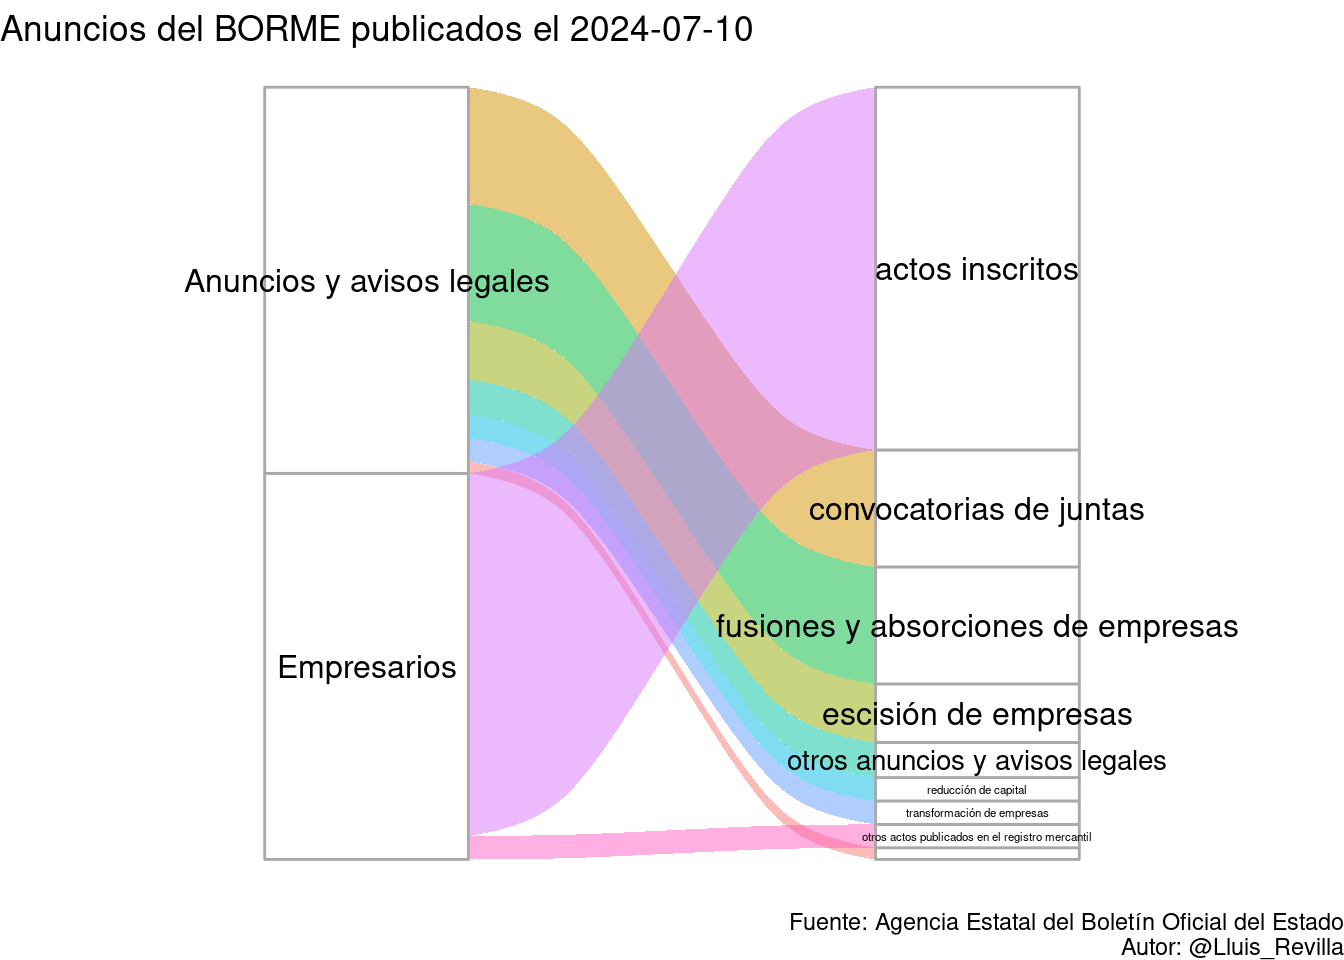
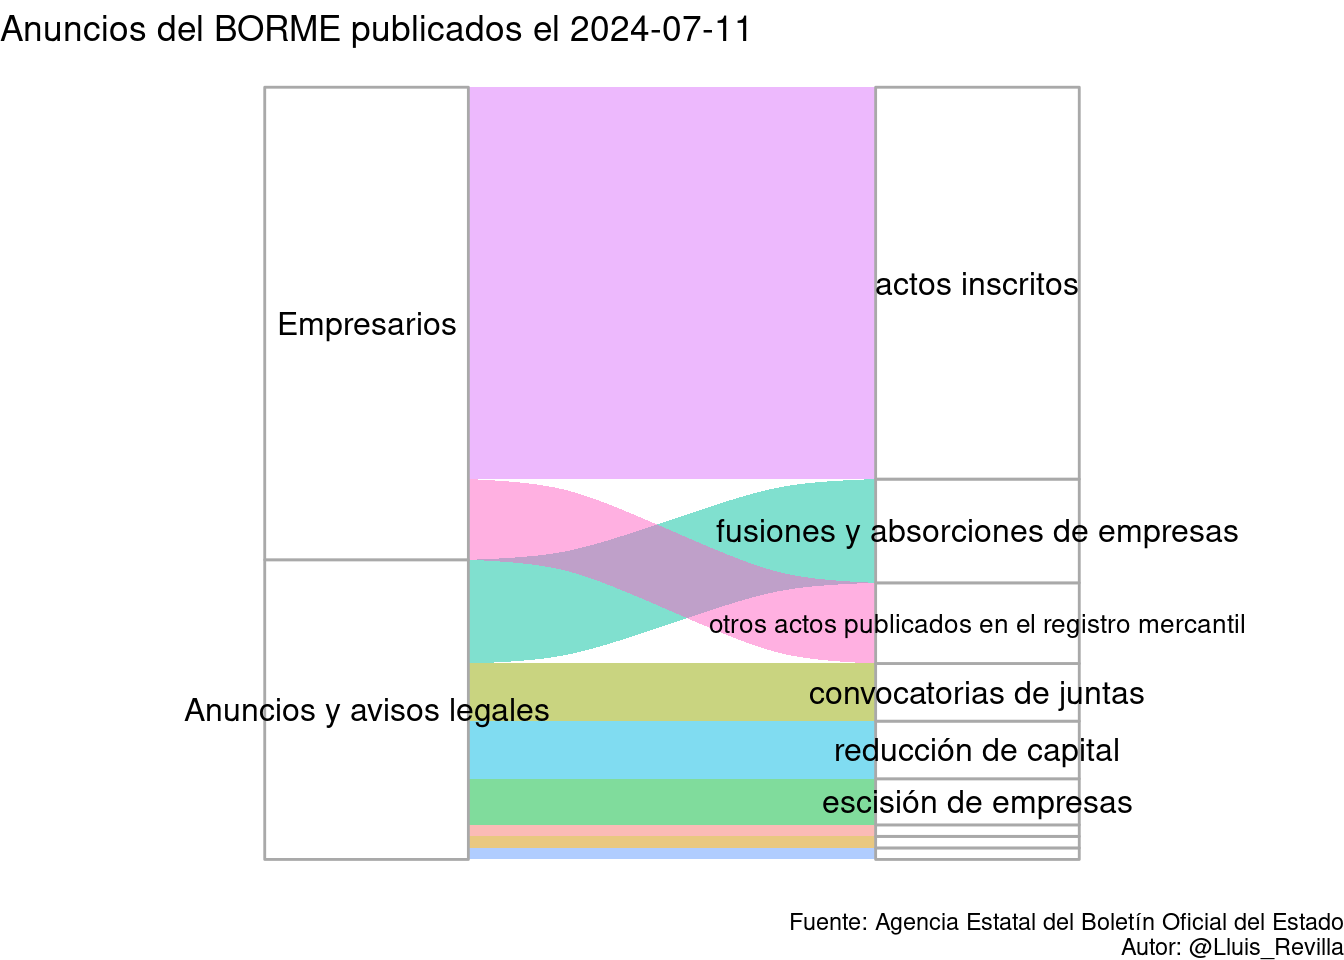
Update BORME

Changed region(s): [[0.125, 0.0938, 0.9375, 0.9062], [0.6562, 0.25, 0.8125, 0.3125], [0.5312, 0.0, 0.5625, 0.0312]]

diff --git a/docs/last_BORME.html b/docs/last_BORME.html
@@ -379,14 +379,14 @@ $(document).ready(function () {
 
 <div id="resumen-gráfico" class="section level1">
 <h1>Resumen gráfico</h1>
-<p>Esta página web contiene el último sumario del BORME publicado el 2024-07-10 con 66 publicaciones.</p>
+<p>Esta página web contiene el último sumario del BORME publicado el 2024-07-11 con 67 publicaciones.</p>
 <p><img src="last_BORME_files/figure-html/graphics-1.png" width="672" /></p>
 </div>
 <div id="tabla-de-publicaciones" class="section level1">
 <h1>Tabla de publicaciones</h1>
 <p>Aquí está la tabla completa con enlaces a las publicaciones:</p>
-<div class="datatables html-widget html-fill-item-overflow-hidden html-fill-item" id="htmlwidget-27d4bf827f6c5ff35a46" style="width:100%;height:auto;"></div>
-<script type="application/json" data-for="htmlwidget-27d4bf827f6c5ff35a46">{"x":{"filter":"top","vertical":false,"filterHTML":"<tr>\n  <td><\/td>\n  <td data-type=\"character\" style=\"vertical-align: top;\">\n    <div class=\"form-group has-feedback\" style=\"margin-bottom: auto;\">\n      <input type=\"search\" placeholder=\"All\" class=\"form-control\" style=\"width: 100%;\"/>\n      <span class=\"glyphicon glyphicon-remove-circle form-control-feedback\"><\/span>\n    <\/div>\n  <\/td>\n  <td data-type=\"character\" style=\"vertical-align: top;\">\n    <div class=\"form-group has-feedback\" style=\"margin-bottom: auto;\">\n      <input type=\"search\" placeholder=\"All\" class=\"form-control\" style=\"width: 100%;\"/>\n      <span class=\"glyphicon glyphicon-remove-circle form-control-feedback\"><\/span>\n    <\/div>\n  <\/td>\n  <td data-type=\"character\" style=\"vertical-align: top;\">\n    <div class=\"form-group has-feedback\" style=\"margin-bottom: auto;\">\n      <input type=\"search\" placeholder=\"All\" class=\"form-control\" style=\"width: 100%;\" disabled=\"\"/>\n      <span class=\"glyphicon glyphicon-remove-circle form-control-feedback\"><\/span>\n    <\/div>\n  <\/td>\n  <td data-type=\"character\" style=\"vertical-align: top;\">\n    <div class=\"form-group has-feedback\" style=\"margin-bottom: auto;\">\n      <input type=\"search\" placeholder=\"All\" class=\"form-control\" style=\"width: 100%;\"/>\n      <span class=\"glyphicon glyphicon-remove-circle form-control-feedback\"><\/span>\n    <\/div>\n  <\/td>\n<\/tr>","data":[["1","2","3","4","5","6","7","8","9","10","11","12","13","14","15","16","17","18","19","20","21","22","23","24","25","26","27","28","29","30","31","32","33","34","35","36","37","38","39","40","41","42","43","44","45","46","47","48","49","50","51","52","53","54","55","56","57","58","59","60","61","62","63","64","65","66"],["SECCIÓN PRIMERA. Empresarios","SECCIÓN PRIMERA. Empresarios","SECCIÓN PRIMERA. Empresarios","SECCIÓN PRIMERA. Empresarios","SECCIÓN PRIMERA. Empresarios","SECCIÓN PRIMERA. Empresarios","SECCIÓN PRIMERA. Empresarios","SECCIÓN PRIMERA. Empresarios","SECCIÓN PRIMERA. Empresarios","SECCIÓN PRIMERA. Empresarios","SECCIÓN PRIMERA. Empresarios","SECCIÓN PRIMERA. Empresarios","SECCIÓN PRIMERA. Empresarios","SECCIÓN PRIMERA. Empresarios","SECCIÓN PRIMERA. Empresarios","SECCIÓN PRIMERA. Empresarios","SECCIÓN PRIMERA. Empresarios","SECCIÓN PRIMERA. Empresarios","SECCIÓN PRIMERA. Empresarios","SECCIÓN PRIMERA. Empresarios","SECCIÓN PRIMERA. Empresarios","SECCIÓN PRIMERA. Empresarios","SECCIÓN PRIMERA. Empresarios","SECCIÓN PRIMERA. Empresarios","SECCIÓN PRIMERA. Empresarios","SECCIÓN PRIMERA. Empresarios","SECCIÓN PRIMERA. Empresarios","SECCIÓN PRIMERA. Empresarios","SECCIÓN PRIMERA. Empresarios","SECCIÓN PRIMERA. Empresarios","SECCIÓN PRIMERA. Empresarios","SECCIÓN PRIMERA. Empresarios","SECCIÓN PRIMERA. Empresarios","SECCIÓN SEGUNDA. Anuncios y avisos legales","SECCIÓN SEGUNDA. Anuncios y avisos legales","SECCIÓN SEGUNDA. Anuncios y avisos legales","SECCIÓN SEGUNDA. Anuncios y avisos legales","SECCIÓN SEGUNDA. Anuncios y avisos legales","SECCIÓN SEGUNDA. Anuncios y avisos legales","SECCIÓN SEGUNDA. Anuncios y avisos legales","SECCIÓN SEGUNDA. Anuncios y avisos legales","SECCIÓN SEGUNDA. Anuncios y avisos legales","SECCIÓN SEGUNDA. Anuncios y avisos legales","SECCIÓN SEGUNDA. Anuncios y avisos legales","SECCIÓN SEGUNDA. Anuncios y avisos legales","SECCIÓN SEGUNDA. Anuncios y avisos legales","SECCIÓN SEGUNDA. Anuncios y avisos legales","SECCIÓN SEGUNDA. Anuncios y avisos legales","SECCIÓN SEGUNDA. Anuncios y avisos legales","SECCIÓN SEGUNDA. Anuncios y avisos legales","SECCIÓN SEGUNDA. Anuncios y avisos legales","SECCIÓN SEGUNDA. Anuncios y avisos legales","SECCIÓN SEGUNDA. Anuncios y avisos legales","SECCIÓN SEGUNDA. Anuncios y avisos legales","SECCIÓN SEGUNDA. Anuncios y avisos legales","SECCIÓN SEGUNDA. Anuncios y avisos legales","SECCIÓN SEGUNDA. Anuncios y avisos legales","SECCIÓN SEGUNDA. Anuncios y avisos legales","SECCIÓN SEGUNDA. Anuncios y avisos legales","SECCIÓN SEGUNDA. Anuncios y avisos legales","SECCIÓN SEGUNDA. Anuncios y avisos legales","SECCIÓN SEGUNDA. Anuncios y avisos legales","SECCIÓN SEGUNDA. Anuncios y avisos legales","SECCIÓN SEGUNDA. Anuncios y avisos legales","SECCIÓN SEGUNDA. Anuncios y avisos legales","SECCIÓN SEGUNDA. Anuncios y avisos legales"],["Actos inscritos","Actos inscritos","Actos inscritos","Actos inscritos","Actos inscritos","Actos inscritos","Actos inscritos","Actos inscritos","Actos inscritos","Actos inscritos","Actos inscritos","Actos inscritos","Actos inscritos","Actos inscritos","Actos inscritos","Actos inscritos","Actos inscritos","Actos inscritos","Actos inscritos","Actos inscritos","Actos inscritos","Actos inscritos","Actos inscritos","Actos inscritos","Actos inscritos","Actos inscritos","Actos inscritos","Actos inscritos","Actos inscritos","Actos inscritos","Actos inscritos","Otros actos publicados en el Registro Mercantil","Otros actos publicados en el Registro Mercantil","BALANCES","CONVOCATORIAS DE JUNTAS","CONVOCATORIAS DE JUNTAS","CONVOCATORIAS DE JUNTAS","CONVOCATORIAS DE JUNTAS","CONVOCATORIAS DE JUNTAS","CONVOCATORIAS DE JUNTAS","CONVOCATORIAS DE JUNTAS","CONVOCATORIAS DE JUNTAS","CONVOCATORIAS DE JUNTAS","CONVOCATORIAS DE JUNTAS","FUSIONES Y ABSORCIONES DE EMPRESAS","FUSIONES Y ABSORCIONES DE EMPRESAS","FUSIONES Y ABSORCIONES DE EMPRESAS","FUSIONES Y ABSORCIONES DE EMPRESAS","FUSIONES Y ABSORCIONES DE EMPRESAS","FUSIONES Y ABSORCIONES DE EMPRESAS","FUSIONES Y ABSORCIONES DE EMPRESAS","FUSIONES Y ABSORCIONES DE EMPRESAS","FUSIONES Y ABSORCIONES DE EMPRESAS","FUSIONES Y ABSORCIONES DE EMPRESAS","ESCISIÓN DE EMPRESAS","ESCISIÓN DE EMPRESAS","ESCISIÓN DE EMPRESAS","ESCISIÓN DE EMPRESAS","ESCISIÓN DE EMPRESAS","TRANSFORMACIÓN DE EMPRESAS","TRANSFORMACIÓN DE EMPRESAS","REDUCCIÓN DE CAPITAL","REDUCCIÓN DE CAPITAL","OTROS ANUNCIOS Y AVISOS LEGALES","OTROS ANUNCIOS Y AVISOS LEGALES","OTROS ANUNCIOS Y AVISOS LEGALES"],[null,null,null,null,null,null,null,null,null,null,null,null,null,null,null,null,null,null,null,null,null,null,null,null,null,null,null,null,null,null,null,null,null,null,null,null,null,null,null,null,null,null,null,null,null,null,null,null,null,null,null,null,null,null,null,null,null,null,null,null,null,null,null,null,null,null],["BORME-A-2024-132-02","BORME-A-2024-132-03","BORME-A-2024-132-06","BORME-A-2024-132-07","BORME-A-2024-132-08","BORME-A-2024-132-10","BORME-A-2024-132-12","BORME-A-2024-132-13","BORME-A-2024-132-14","BORME-A-2024-132-15","BORME-A-2024-132-17","BORME-A-2024-132-18","BORME-A-2024-132-23","BORME-A-2024-132-24","BORME-A-2024-132-25","BORME-A-2024-132-26","BORME-A-2024-132-28","BORME-A-2024-132-29","BORME-A-2024-132-30","BORME-A-2024-132-31","BORME-A-2024-132-32","BORME-A-2024-132-33","BORME-A-2024-132-34","BORME-A-2024-132-35","BORME-A-2024-132-36","BORME-A-2024-132-45","BORME-A-2024-132-46","BORME-A-2024-132-47","BORME-A-2024-132-50","BORME-A-2024-132-51","BORME-A-2024-132-99","BORME-B-2024-132-08","BORME-B-2024-132-48","BORME-C-2024-4233","BORME-C-2024-4234","BORME-C-2024-4235","BORME-C-2024-4236","BORME-C-2024-4237","BORME-C-2024-4238","BORME-C-2024-4239","BORME-C-2024-4240","BORME-C-2024-4241","BORME-C-2024-4242","BORME-C-2024-4243","BORME-C-2024-4244","BORME-C-2024-4245","BORME-C-2024-4246","BORME-C-2024-4247","BORME-C-2024-4248","BORME-C-2024-4249","BORME-C-2024-4250","BORME-C-2024-4251","BORME-C-2024-4252","BORME-C-2024-4253","BORME-C-2024-4254","BORME-C-2024-4255","BORME-C-2024-4256","BORME-C-2024-4257","BORME-C-2024-4258","BORME-C-2024-4259","BORME-C-2024-4260","BORME-C-2024-4261","BORME-C-2024-4262","BORME-C-2024-4263","BORME-C-2024-4264","BORME-C-2024-4265"]],"container":"<table class=\"display\">\n  <thead>\n    <tr>\n      <th> <\/th>\n      <th>Sección<\/th>\n      <th>Emisor<\/th>\n      <th>Texto<\/th>\n      <th>Link<\/th>\n    <\/tr>\n  <\/thead>\n<\/table>","options":{"pageLength":10,"autoWidth":true,"columnDefs":[{"orderable":false,"targets":0},{"name":" ","targets":0},{"name":"Sección","targets":1},{"name":"Emisor","targets":2},{"name":"Texto","targets":3},{"name":"Link","targets":4}],"order":[],"orderClasses":false,"orderCellsTop":true}},"evals":[],"jsHooks":[]}</script>
+<div class="datatables html-widget html-fill-item-overflow-hidden html-fill-item" id="htmlwidget-7ebf67566f9f2d34873f" style="width:100%;height:auto;"></div>
+<script type="application/json" data-for="htmlwidget-7ebf67566f9f2d34873f">{"x":{"filter":"top","vertical":false,"filterHTML":"<tr>\n  <td><\/td>\n  <td data-type=\"character\" style=\"vertical-align: top;\">\n    <div class=\"form-group has-feedback\" style=\"margin-bottom: auto;\">\n      <input type=\"search\" placeholder=\"All\" class=\"form-control\" style=\"width: 100%;\"/>\n      <span class=\"glyphicon glyphicon-remove-circle form-control-feedback\"><\/span>\n    <\/div>\n  <\/td>\n  <td data-type=\"character\" style=\"vertical-align: top;\">\n    <div class=\"form-group has-feedback\" style=\"margin-bottom: auto;\">\n      <input type=\"search\" placeholder=\"All\" class=\"form-control\" style=\"width: 100%;\"/>\n      <span class=\"glyphicon glyphicon-remove-circle form-control-feedback\"><\/span>\n    <\/div>\n  <\/td>\n  <td data-type=\"character\" style=\"vertical-align: top;\">\n    <div class=\"form-group has-feedback\" style=\"margin-bottom: auto;\">\n      <input type=\"search\" placeholder=\"All\" class=\"form-control\" style=\"width: 100%;\" disabled=\"\"/>\n      <span class=\"glyphicon glyphicon-remove-circle form-control-feedback\"><\/span>\n    <\/div>\n  <\/td>\n  <td data-type=\"character\" style=\"vertical-align: top;\">\n    <div class=\"form-group has-feedback\" style=\"margin-bottom: auto;\">\n      <input type=\"search\" placeholder=\"All\" class=\"form-control\" style=\"width: 100%;\"/>\n      <span class=\"glyphicon glyphicon-remove-circle form-control-feedback\"><\/span>\n    <\/div>\n  <\/td>\n<\/tr>","data":[["1","2","3","4","5","6","7","8","9","10","11","12","13","14","15","16","17","18","19","20","21","22","23","24","25","26","27","28","29","30","31","32","33","34","35","36","37","38","39","40","41","42","43","44","45","46","47","48","49","50","51","52","53","54","55","56","57","58","59","60","61","62","63","64","65","66","67"],["SECCIÓN PRIMERA. Empresarios","SECCIÓN PRIMERA. Empresarios","SECCIÓN PRIMERA. Empresarios","SECCIÓN PRIMERA. Empresarios","SECCIÓN PRIMERA. Empresarios","SECCIÓN PRIMERA. Empresarios","SECCIÓN PRIMERA. Empresarios","SECCIÓN PRIMERA. Empresarios","SECCIÓN PRIMERA. Empresarios","SECCIÓN PRIMERA. Empresarios","SECCIÓN PRIMERA. Empresarios","SECCIÓN PRIMERA. Empresarios","SECCIÓN PRIMERA. Empresarios","SECCIÓN PRIMERA. Empresarios","SECCIÓN PRIMERA. Empresarios","SECCIÓN PRIMERA. Empresarios","SECCIÓN PRIMERA. Empresarios","SECCIÓN PRIMERA. Empresarios","SECCIÓN PRIMERA. Empresarios","SECCIÓN PRIMERA. Empresarios","SECCIÓN PRIMERA. Empresarios","SECCIÓN PRIMERA. Empresarios","SECCIÓN PRIMERA. Empresarios","SECCIÓN PRIMERA. Empresarios","SECCIÓN PRIMERA. Empresarios","SECCIÓN PRIMERA. Empresarios","SECCIÓN PRIMERA. Empresarios","SECCIÓN PRIMERA. Empresarios","SECCIÓN PRIMERA. Empresarios","SECCIÓN PRIMERA. Empresarios","SECCIÓN PRIMERA. Empresarios","SECCIÓN PRIMERA. Empresarios","SECCIÓN PRIMERA. Empresarios","SECCIÓN PRIMERA. Empresarios","SECCIÓN PRIMERA. Empresarios","SECCIÓN PRIMERA. Empresarios","SECCIÓN PRIMERA. Empresarios","SECCIÓN PRIMERA. Empresarios","SECCIÓN PRIMERA. Empresarios","SECCIÓN PRIMERA. Empresarios","SECCIÓN PRIMERA. Empresarios","SECCIÓN SEGUNDA. Anuncios y avisos legales","SECCIÓN SEGUNDA. Anuncios y avisos legales","SECCIÓN SEGUNDA. Anuncios y avisos legales","SECCIÓN SEGUNDA. Anuncios y avisos legales","SECCIÓN SEGUNDA. Anuncios y avisos legales","SECCIÓN SEGUNDA. Anuncios y avisos legales","SECCIÓN SEGUNDA. Anuncios y avisos legales","SECCIÓN SEGUNDA. Anuncios y avisos legales","SECCIÓN SEGUNDA. Anuncios y avisos legales","SECCIÓN SEGUNDA. Anuncios y avisos legales","SECCIÓN SEGUNDA. Anuncios y avisos legales","SECCIÓN SEGUNDA. Anuncios y avisos legales","SECCIÓN SEGUNDA. Anuncios y avisos legales","SECCIÓN SEGUNDA. Anuncios y avisos legales","SECCIÓN SEGUNDA. Anuncios y avisos legales","SECCIÓN SEGUNDA. Anuncios y avisos legales","SECCIÓN SEGUNDA. Anuncios y avisos legales","SECCIÓN SEGUNDA. Anuncios y avisos legales","SECCIÓN SEGUNDA. Anuncios y avisos legales","SECCIÓN SEGUNDA. Anuncios y avisos legales","SECCIÓN SEGUNDA. Anuncios y avisos legales","SECCIÓN SEGUNDA. Anuncios y avisos legales","SECCIÓN SEGUNDA. Anuncios y avisos legales","SECCIÓN SEGUNDA. Anuncios y avisos legales","SECCIÓN SEGUNDA. Anuncios y avisos legales","SECCIÓN SEGUNDA. Anuncios y avisos legales"],["Actos inscritos","Actos inscritos","Actos inscritos","Actos inscritos","Actos inscritos","Actos inscritos","Actos inscritos","Actos inscritos","Actos inscritos","Actos inscritos","Actos inscritos","Actos inscritos","Actos inscritos","Actos inscritos","Actos inscritos","Actos inscritos","Actos inscritos","Actos inscritos","Actos inscritos","Actos inscritos","Actos inscritos","Actos inscritos","Actos inscritos","Actos inscritos","Actos inscritos","Actos inscritos","Actos inscritos","Actos inscritos","Actos inscritos","Actos inscritos","Actos inscritos","Actos inscritos","Actos inscritos","Actos inscritos","Otros actos publicados en el Registro Mercantil","Otros actos publicados en el Registro Mercantil","Otros actos publicados en el Registro Mercantil","Otros actos publicados en el Registro Mercantil","Otros actos publicados en el Registro Mercantil","Otros actos publicados en el Registro Mercantil","Otros actos publicados en el Registro Mercantil","BALANCES","CONVOCATORIAS DE JUNTAS","CONVOCATORIAS DE JUNTAS","CONVOCATORIAS DE JUNTAS","CONVOCATORIAS DE JUNTAS","CONVOCATORIAS DE JUNTAS","FUSIONES Y ABSORCIONES DE EMPRESAS","FUSIONES Y ABSORCIONES DE EMPRESAS","FUSIONES Y ABSORCIONES DE EMPRESAS","FUSIONES Y ABSORCIONES DE EMPRESAS","FUSIONES Y ABSORCIONES DE EMPRESAS","FUSIONES Y ABSORCIONES DE EMPRESAS","FUSIONES Y ABSORCIONES DE EMPRESAS","FUSIONES Y ABSORCIONES DE EMPRESAS","FUSIONES Y ABSORCIONES DE EMPRESAS","ESCISIÓN DE EMPRESAS","ESCISIÓN DE EMPRESAS","ESCISIÓN DE EMPRESAS","ESCISIÓN DE EMPRESAS","TRANSFORMACIÓN DE EMPRESAS","AUMENTO DE CAPITAL","REDUCCIÓN DE CAPITAL","REDUCCIÓN DE CAPITAL","REDUCCIÓN DE CAPITAL","REDUCCIÓN DE CAPITAL","REDUCCIÓN DE CAPITAL"],[null,null,null,null,null,null,null,null,null,null,null,null,null,null,null,null,null,null,null,null,null,null,null,null,null,null,null,null,null,null,null,null,null,null,null,null,null,null,null,null,null,null,null,null,null,null,null,null,null,null,null,null,null,null,null,null,null,null,null,null,null,null,null,null,null,null,null],["BORME-A-2024-133-03","BORME-A-2024-133-06","BORME-A-2024-133-07","BORME-A-2024-133-08","BORME-A-2024-133-09","BORME-A-2024-133-14","BORME-A-2024-133-15","BORME-A-2024-133-16","BORME-A-2024-133-17","BORME-A-2024-133-18","BORME-A-2024-133-19","BORME-A-2024-133-22","BORME-A-2024-133-23","BORME-A-2024-133-25","BORME-A-2024-133-26","BORME-A-2024-133-27","BORME-A-2024-133-28","BORME-A-2024-133-29","BORME-A-2024-133-30","BORME-A-2024-133-31","BORME-A-2024-133-33","BORME-A-2024-133-35","BORME-A-2024-133-36","BORME-A-2024-133-37","BORME-A-2024-133-40","BORME-A-2024-133-41","BORME-A-2024-133-42","BORME-A-2024-133-43","BORME-A-2024-133-45","BORME-A-2024-133-46","BORME-A-2024-133-47","BORME-A-2024-133-48","BORME-A-2024-133-49","BORME-A-2024-133-99","BORME-B-2024-133-09","BORME-B-2024-133-25","BORME-B-2024-133-28","BORME-B-2024-133-29","BORME-B-2024-133-41","BORME-B-2024-133-46","BORME-B-2024-133-47","BORME-C-2024-4266","BORME-C-2024-4267","BORME-C-2024-4268","BORME-C-2024-4269","BORME-C-2024-4270","BORME-C-2024-4271","BORME-C-2024-4272","BORME-C-2024-4273","BORME-C-2024-4274","BORME-C-2024-4275","BORME-C-2024-4276","BORME-C-2024-4277","BORME-C-2024-4278","BORME-C-2024-4279","BORME-C-2024-4280","BORME-C-2024-4281","BORME-C-2024-4282","BORME-C-2024-4283","BORME-C-2024-4284","BORME-C-2024-4285","BORME-C-2024-4286","BORME-C-2024-4287","BORME-C-2024-4288","BORME-C-2024-4289","BORME-C-2024-4290","BORME-C-2024-4291"]],"container":"<table class=\"display\">\n  <thead>\n    <tr>\n      <th> <\/th>\n      <th>Sección<\/th>\n      <th>Emisor<\/th>\n      <th>Texto<\/th>\n      <th>Link<\/th>\n    <\/tr>\n  <\/thead>\n<\/table>","options":{"pageLength":10,"autoWidth":true,"columnDefs":[{"orderable":false,"targets":0},{"name":" ","targets":0},{"name":"Sección","targets":1},{"name":"Emisor","targets":2},{"name":"Texto","targets":3},{"name":"Link","targets":4}],"order":[],"orderClasses":false,"orderCellsTop":true}},"evals":[],"jsHooks":[]}</script>
 </div>
 
 
